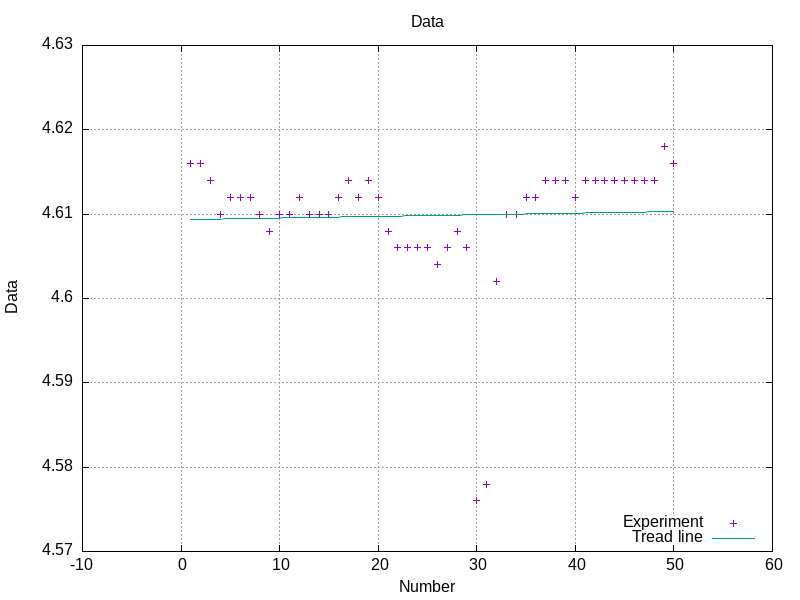
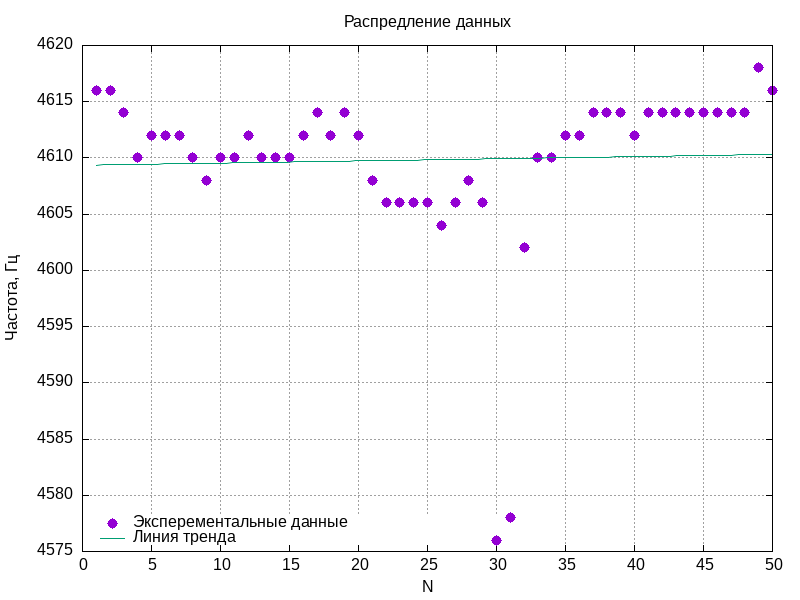
Fix result procecing

diff --git a/main.cpp b/main.cpp
@@ -29,20 +29,23 @@ struct statistic {
   }
   friend std::ostream &operator<<(std::ostream &out, const statistic &s) {
     for (auto x : s.data) {
-      out << std::setprecision(4) << x << " ";
+      out << x << " ";
     }
     return out;
   }
 
 private:
-  static int student_coef(size_t n, double alpha) {
-    boost::math::students_t dist(n);
+  static double student_coef(size_t n, double alpha) {
+    if (n <= 1) {
+      return 0.0;
+    }
+    boost::math::students_t dist(n - 1);
     /*
      *                     alpha
      <----|--------------------------------------|---->
         -t_stat              0                 +t_stat
     */
-    double t_stat = boost::math::quantile(dist, 0.5 + alpha / 2);
+    auto t_stat = boost::math::quantile(dist, 0.5 + alpha / 2.0);
     return t_stat;
   }
 
@@ -80,7 +83,7 @@ public:
   }
 
   double sum_of_deviations_from_arithmetic_mean() const {
-    double res;
+    double res = 0;
     double mean = get_median();
 
     for (auto x : data) {
@@ -89,7 +92,7 @@ public:
     return res;
   }
   double sum_of_deviations_from_arithmetic_mean_square() const {
-    double res;
+    double res = 0;
     double mean = get_median();
 
     for (auto x : data) {
@@ -115,13 +118,17 @@ public:
     if (data.size() < 2) {
       return 0;
     }
+    auto n = data.size();
     return sqrt(sum_of_deviations_from_arithmetic_mean_square() /
-                (data.size() - 1) / data.size());
+                ((n - 1) * n));
   }
   // median + delta
   std::pair<double, double> confidence_interval_for_mean(double alpha) const {
     double delta =
         student_coef(data.size(), alpha) * standard_error_of_average();
+    std::cout << "student: " << student_coef(data.size(), alpha) << std::endl
+              << "eror of average: " << standard_error_of_average()
+              << std::endl;
     return {get_median(), delta};
   }
   // gistogram, start, delta
@@ -156,26 +163,30 @@ std::ostream &lab1_table(std::ostream &out, const statistic &s) {
   auto d = s.deviations_from_arithmetic_mean();
   out << "N;Source;d;d_squre" << std::endl;
   for (size_t i = 0; i < s.data.size(); ++i) {
-    out << i << ";" << s.data[i] << ";" << d[i] << ";" << d[i] * d[i]
+    out << i + 1 << ";" << s.data[i] << ";" << d[i] << ";" << d[i] * d[i]
         << std::endl;
   }
   return out;
 }
 
 int main() {
+  std::cout << std::fixed << std::setprecision(4);
   std::cout << "lab: 1, file: data_raw.csv" << std::endl;
 
   statistic s;
 
   s.from_file("data_raw.csv");
-  std::cout << "data: " << s << std::endl;
+  for (auto &x : s.data) {
+    x *= 1000;
+  }
+  std::cout << "data (Hz): " << s << std::endl;
 
   auto median = s.get_median();
-  std::cout << "median " << median << std::endl;
+  std::cout << "median " << median << " Hz" << std::endl;
 
   auto [m, d] = s.confidence_interval_for_mean(0.98);
-  std::cout << "X is " << m - d << " " << m + d << std::endl;
-  std::cout << "d(50, 0,98) = " << d << std::endl;
+  std::cout << "X is " << m - d << " Hz" << " " << m + d << " Hz" << std::endl;
+  std::cout << "d(50, 0,98) = " << d << " Hz" << std::endl;
 
   std::ofstream fout("lab_table.csv");
   lab1_table(fout, s);
@@ -185,14 +196,15 @@ int main() {
     auto [res, start, delta] = s.build_gistorgam(20);
     fout << "X;dN" << std::endl;
     for (int i = 0; i < res.size(); ++i) {
-      fout << start + delta * (i + 0.5) << ";" << res[i] << std::endl;
+      fout << start + delta * (i + 0.5) << ";"
+           << (double)res[i] / (double)s.data.size() << std::endl;
     }
   }
   double max = 0;
   for (auto x : s.data) {
-    max = std::max(max, 1 + 5 * 10e-7 * x);
+    max = std::max(max, 1 + 5 * 10e-7 * x * 1000);
   }
-  std::cout << "max tool error = " << max << std::endl;
+  std::cout << "max tool error = " << max / 1000 << " Hz" << std::endl;
 
   return 0;
 }
